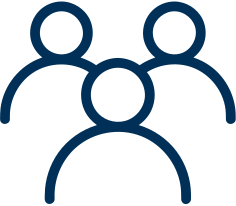
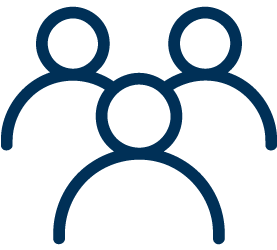
Fixed text alignment issue in UserGuide screens for iPhone and android.Used  multidimensional images in UserGuide screens.

diff --git a/src/screens/UserGuides/DiscussionAndCardDetail/index.js b/src/screens/UserGuides/DiscussionAndCardDetail/index.js
@@ -18,7 +18,7 @@ import Button from '@button'
 import Footer from '@footer'
 import { Loader } from '@components';
 import moment from 'moment';
-import {Colors} from '@theme';
+import {Colors, Images, FontSizes} from '@theme';
 const { width,height } = Dimensions.get('window');
 import { MediaQuery } from "react-native-responsive";
 import { responsiveWidth, responsiveHeight } from 'react-native-responsive-dimensions';
@@ -38,7 +38,7 @@ export default class DiscussionAndCardDetail extends Component {
     render() {
 
         return (
-            <ImageBackground source={require('../../../../assets/images/bg-how-to.jpg')} resizeMode="stretch" style={Styles.container} >
+            <ImageBackground source={Images.bg_how_to} resizeMode="stretch" style={Styles.container} >
 
                 <ScrollView contentContainerStyle={Styles.scroll}>
 
@@ -51,40 +51,40 @@ export default class DiscussionAndCardDetail extends Component {
                             </View>
                             <MediaQuery minDeviceWidth={768}>
                                 <View style={{flexDirection:'row'}}>
-                                <TouchableOpacity style={Styles.firstrowItem}>
-                                    <Image source={require('../../../../assets/images/icon-professional.png')} resizeMode='stretch' style={Styles.icon}/>
-                                    <View style={Styles.cardView}>
-                                        <Text medium style={Styles.cardtitle}>Professional</Text>
-                                        <Image source={require('../../../../assets/images/blue-left-arrow.png')} resizeMode='stretch'/>
-                                    </View>
-                                </TouchableOpacity>
+                                    <TouchableOpacity style={Styles.firstrowItem}>
+                                        <Image source={Images.icon_professional} resizeMode='stretch' style={Styles.icon}/>
+                                        <View style={Styles.cardView}>
+                                            <Text medium style={Styles.cardtitle}>Professional</Text>
+                                            <Image source={Images.icon_left_arrow} resizeMode='stretch'/>
+                                        </View>
+                                    </TouchableOpacity>
 
-                                <TouchableOpacity style={Styles.firstrowItem} >             
-                                    <Image source={require('../../../../assets/images/icon-community.png')} resizeMode='stretch' style={[Styles.icon,{width:width/5,}]}/>
-                                    <View style={Styles.cardView}>
-                                        <Text medium style={Styles.cardtitle}>Community</Text>
-                                        <Image source={require('../../../../assets/images/blue-left-arrow.png')} resizeMode='stretch'/>
-                                    </View>
-                                </TouchableOpacity>
+                                    <TouchableOpacity style={Styles.firstrowItem} >             
+                                        <Image source={Images.icon_community} resizeMode='stretch' style={[Styles.icon,{width:width/5,}]}/>
+                                        <View style={Styles.cardView}>
+                                            <Text medium style={Styles.cardtitle}>Community</Text>
+                                            <Image source={Images.icon_left_arrow} resizeMode='stretch'/>
+                                        </View>
+                                    </TouchableOpacity>
                                 </View>
                             </MediaQuery>
                             <MediaQuery maxDeviceWidth={767}>
                                 <View >
-                                <TouchableOpacity style={Styles.firstrowItem}>
-                                       
-                                    <View style={Styles.cardView}>
-                                        <Text medium style={Styles.cardtitle}>Professional</Text>
-                                        <Image source={require('../../../../assets/images/blue-left-arrow.png')} resizeMode='stretch'/>
-                                    </View>
-                                </TouchableOpacity>
+                                    <TouchableOpacity style={Styles.firstrowItem}>
+                                           
+                                        <View style={Styles.cardView}>
+                                            <Text medium style={Styles.cardtitle}>Professional</Text>
+                                            <Image source={Images.icon_left_arrow} resizeMode='stretch'/>
+                                        </View>
+                                    </TouchableOpacity>
 
-                                <TouchableOpacity style={Styles.firstrowItem}>            
-                                       
-                                    <View style={Styles.cardView}>
-                                        <Text medium style={Styles.cardtitle}>Community</Text>
-                                        <Image source={require('../../../../assets/images/blue-left-arrow.png')} resizeMode='stretch'/>
-                                    </View>
-                                </TouchableOpacity>
+                                    <TouchableOpacity style={Styles.firstrowItem}>            
+                                           
+                                        <View style={Styles.cardView}>
+                                            <Text medium style={Styles.cardtitle}>Community</Text>
+                                            <Image source={Images.icon_left_arrow} resizeMode='stretch'/>
+                                        </View>
+                                    </TouchableOpacity>
                                 </View>
                             </MediaQuery>
 

diff --git a/src/screens/UserGuides/UserGuidesList/styles.js b/src/screens/UserGuides/UserGuidesList/styles.js
@@ -5,13 +5,14 @@ import {
     Dimensions,
 } from 'react-native';
 
-import {Colors} from '@theme';
+import {Colors, MediaQueries} from '@theme';
 
 const { width,height } = Dimensions.get('window');
 import { responsiveWidth, responsiveHeight } from 'react-native-responsive-dimensions';
+import { MediaQueryStyleSheet } from "react-native-responsive";
 
 
-export default {
+export default MediaQueryStyleSheet.create({
 
     container: {
         flex: 1, 
@@ -50,12 +51,8 @@ export default {
         shadowRadius: 0,
         margin: width/60,   
         paddingVertical:height/80,  
-        justifyContent: 'center',
-        alignItems: 'center',
     },
     itemView:{
-        justifyContent: 'center',
-        alignItems: 'center',
     },
     firstrowItem: {
         flex: 1,
@@ -69,8 +66,6 @@ export default {
         shadowOffset: { width: responsiveWidth(1.2), height: responsiveWidth(1.2) },
         shadowOpacity: 0.5,
         shadowRadius: 0,
-        justifyContent: 'center',
-        alignItems: 'center',
     },
     titleView: {
         backgroundColor: Colors.backgroundSecondary,
@@ -94,8 +89,40 @@ export default {
         height: height/9,
         resizeMode: 'contain', 
         tintColor: Colors.Red,
-    },
-    
-    
-
-};
+    }
+}, {
+    [MediaQueries.iPad] : {
+        item: {
+            flex: 1,
+            backgroundColor: Colors.backgroundSecondary,
+            borderRadius: 8,
+            shadowColor: '#000',
+            shadowOffset: { width: responsiveWidth(1.2), height: responsiveWidth(1.2) },
+            shadowOpacity: 0.5,
+            shadowRadius: 0,
+            margin: width/60,   
+            paddingVertical:height/80,  
+            justifyContent: 'center',
+            alignItems: 'center',
+        },
+        itemView:{
+            justifyContent: 'center',
+            alignItems: 'center',
+        },
+        firstrowItem: {
+            flex: 1,
+            backgroundColor: Colors.backgroundSecondary,
+            borderRadius: responsiveWidth(1.2),
+            borderTopWidth: responsiveWidth(1.2),
+            borderTopColor: Colors.Red,
+            margin: width/60,   
+            paddingVertical:height/30,
+            shadowColor: '#000',
+            shadowOffset: { width: responsiveWidth(1.2), height: responsiveWidth(1.2) },
+            shadowOpacity: 0.5,
+            shadowRadius: 0,
+            justifyContent: 'center',
+            alignItems: 'center',
+        }
+    }
+});

diff --git a/src/screens/UserGuides/UserGuidesList/index.js b/src/screens/UserGuides/UserGuidesList/index.js
@@ -117,7 +117,7 @@ export default class UserGuidesList extends Component {
                         </MediaQuery>
                         <View style={Styles.cardView}>
                             <Text medium style={[Styles.cardtitle,{ color: Colors.Red}]}>{item.title} </Text>
-                            <Image source={require('../../../../assets/images/Red-left-arrow.png')} resizeMode='stretch'/>
+                            <Image source={Images.icon_left_arrow} resizeMode='contain' style={{tintColor: Colors.Red}}/>
                         </View>
                 </View>
                 : second ?
@@ -127,14 +127,14 @@ export default class UserGuidesList extends Component {
                             </MediaQuery>
                             <View style={Styles.cardView}>
                                 <Text medium style={[Styles.cardtitle,{ color: Colors.Red}]}>{item.title} </Text>
-                                <Image source={require('../../../../assets/images/Red-left-arrow.png')} resizeMode='stretch'/>
+                                <Image source={Images.icon_left_arrow} resizeMode='contain' style={{tintColor: Colors.Red}}/>
                             </View>
                         </View>
                         :
                         <View style={Styles.itemView}>
                             <View style={Styles.cardView}>
                                 <Text medium style={Styles.cardtitle}>{item.title}</Text>
-                                <Image source={require('../../../../assets/images/blue-left-arrow.png')} resizeMode='stretch' />
+                                <Image source={Images.icon_left_arrow} resizeMode='contain' />
                             </View>
                         </View>
             }
@@ -145,7 +145,7 @@ export default class UserGuidesList extends Component {
     render() {
        
         return (
-            <ImageBackground source={require('../../../../assets/images/bg-how-to.jpg')} resizeMode="stretch" style={Styles.container} >
+            <ImageBackground source={Images.bg_how_to} resizeMode="stretch" style={Styles.container} >
 
                 <ScrollView contentContainerStyle={Styles.scroll}>
 

diff --git a/src/screens/UserGuides/DiscussionAndCardDetail/styles.js b/src/screens/UserGuides/DiscussionAndCardDetail/styles.js
@@ -5,13 +5,14 @@ import {
     Dimensions,
 } from 'react-native';
 
-import {Colors} from '@theme';
+import {Colors, MediaQueries} from '@theme';
 
 const { width,height } = Dimensions.get('window');
 import { responsiveWidth, responsiveHeight } from 'react-native-responsive-dimensions';
+import { MediaQueryStyleSheet } from "react-native-responsive";
 
 
-export default {
+export default MediaQueryStyleSheet.create({
 
     container: {
         flex: 1, 
@@ -30,7 +31,7 @@ export default {
         margin: 8,
         textAlign:'center'
     },
-     cardView:{
+    cardView:{
         flexDirection:'row',
         alignItems:'center'
     },
@@ -52,8 +53,6 @@ export default {
         shadowOffset: { width: responsiveWidth(1.2), height: responsiveWidth(1.2) },
         shadowOpacity: 0.5,
         shadowRadius: 0,
-        justifyContent: 'center',
-        alignItems: 'center',
     },
     titleView: {
         backgroundColor: Colors.backgroundSecondary,
@@ -90,5 +89,35 @@ export default {
         width:width/6,
         paddingHorizontal:width/90
     },
-
-};
+}, {
+    [MediaQueries.iPad] : {
+        item: {
+            flex: 1,
+            backgroundColor: Colors.backgroundSecondary,
+            borderRadius: 8,
+            shadowColor: '#000',
+            shadowOffset: { width: responsiveWidth(1.2), height: responsiveWidth(1.2) },
+            shadowOpacity: 0.5,
+            shadowRadius: 0,
+            margin: width/60,   
+            paddingVertical:height/80,  
+            justifyContent: 'center',
+            alignItems: 'center',
+        },
+        firstrowItem: {
+            flex: 1,
+            backgroundColor: Colors.backgroundSecondary,
+            borderRadius: responsiveWidth(1.2),
+            borderTopWidth: responsiveWidth(1.2),
+            borderTopColor: Colors.Navy,
+            margin: width/60,   
+            paddingVertical:height/30,
+            shadowColor: '#000',
+            shadowOffset: { width: responsiveWidth(1.2), height: responsiveWidth(1.2) },
+            shadowOpacity: 0.5,
+            shadowRadius: 0,
+            justifyContent: 'center',
+            alignItems: 'center',
+        }
+    }
+});

diff --git a/src/screens/UserGuides/UserGuidesDetail/index.js b/src/screens/UserGuides/UserGuidesDetail/index.js
@@ -17,7 +17,7 @@ import Styles from './styles';
 import Text from '@text'
 import Footer from '@footer'
 import Button from '@button'
-import {Colors} from '@theme';
+import {Colors, Images, FontSizes} from '@theme';
 import { Loader } from '@components';
 
 import { getUserGuides, API_HTML_ROOT } from "@api";
@@ -183,7 +183,7 @@ export default class UserGuidesDetail extends Component {
     render() {   
 
         return (
-            <ImageBackground source={require('../../../../assets/images/bg-how-to.jpg')} resizeMode="stretch" style={Styles.container} >
+            <ImageBackground source={Images.bg_how_to} resizeMode="stretch" style={Styles.container} >
 
                 <ScrollView contentContainerStyle={Styles.scroll}>
                     <Loader loading={this.state.loaderVisible}/>

diff --git a/src/theme/images.js b/src/theme/images.js
@@ -17,6 +17,11 @@ const images = {
     icon_discussion_starter: require('../../assets/images/icon-discussion-starter.png'),
     icon_dying_to_talk: require('../../assets/images/icon-dtt-logo.png'),
     logo_footer: require('../../assets/images/pca-logo-footer.png'),
+    icon_left_arrow: require('../../assets/images/icon-left-arrow.png'),
+    icon_professional: require('../../assets/images/icon-professional.png'),
+    icon_community: require('../../assets/images/icon-community.png'),
+
+    bg_how_to: require('../../assets/images/bg-how-to.jpg'),
 }
 
 
